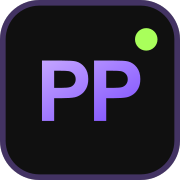
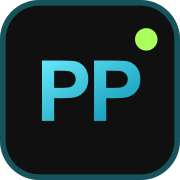
style: switch accent palette from purple to cyan
Also replaces leftover template OG image with a branded share card.

Changed region(s): [[0.0, 0.0, 1.0, 1.0], [0.2222, 0.3333, 0.7778, 0.6944]]

diff --git a/src/React/SkillsList.tsx b/src/React/SkillsList.tsx
@@ -116,7 +116,7 @@ const SkillsList = () => {
               <div
                 className={`md:w-[420px] w-full bg-[#1414149c] rounded-2xl text-left transition-all border overflow-hidden ${
                   isOpen
-                    ? "border-[#a476ff40]"
+                    ? "border-[#22d3ee40]"
                     : "border-[var(--white-icon-tr)] hover:border-[#ffffff25]"
                 }`}
               >

diff --git a/src/React/LetterGlitch.tsx b/src/React/LetterGlitch.tsx
@@ -1,7 +1,7 @@
 import { useRef, useEffect } from "react";
 
 const LetterGlitch = ({
-  glitchColors = ["#5e4491", "#A476FF", "#241a38"],
+  glitchColors = ["#0e7490", "#22D3EE", "#083344"],
   glitchSpeed = 33,
   centerVignette = false,
   outerVignette = false,
